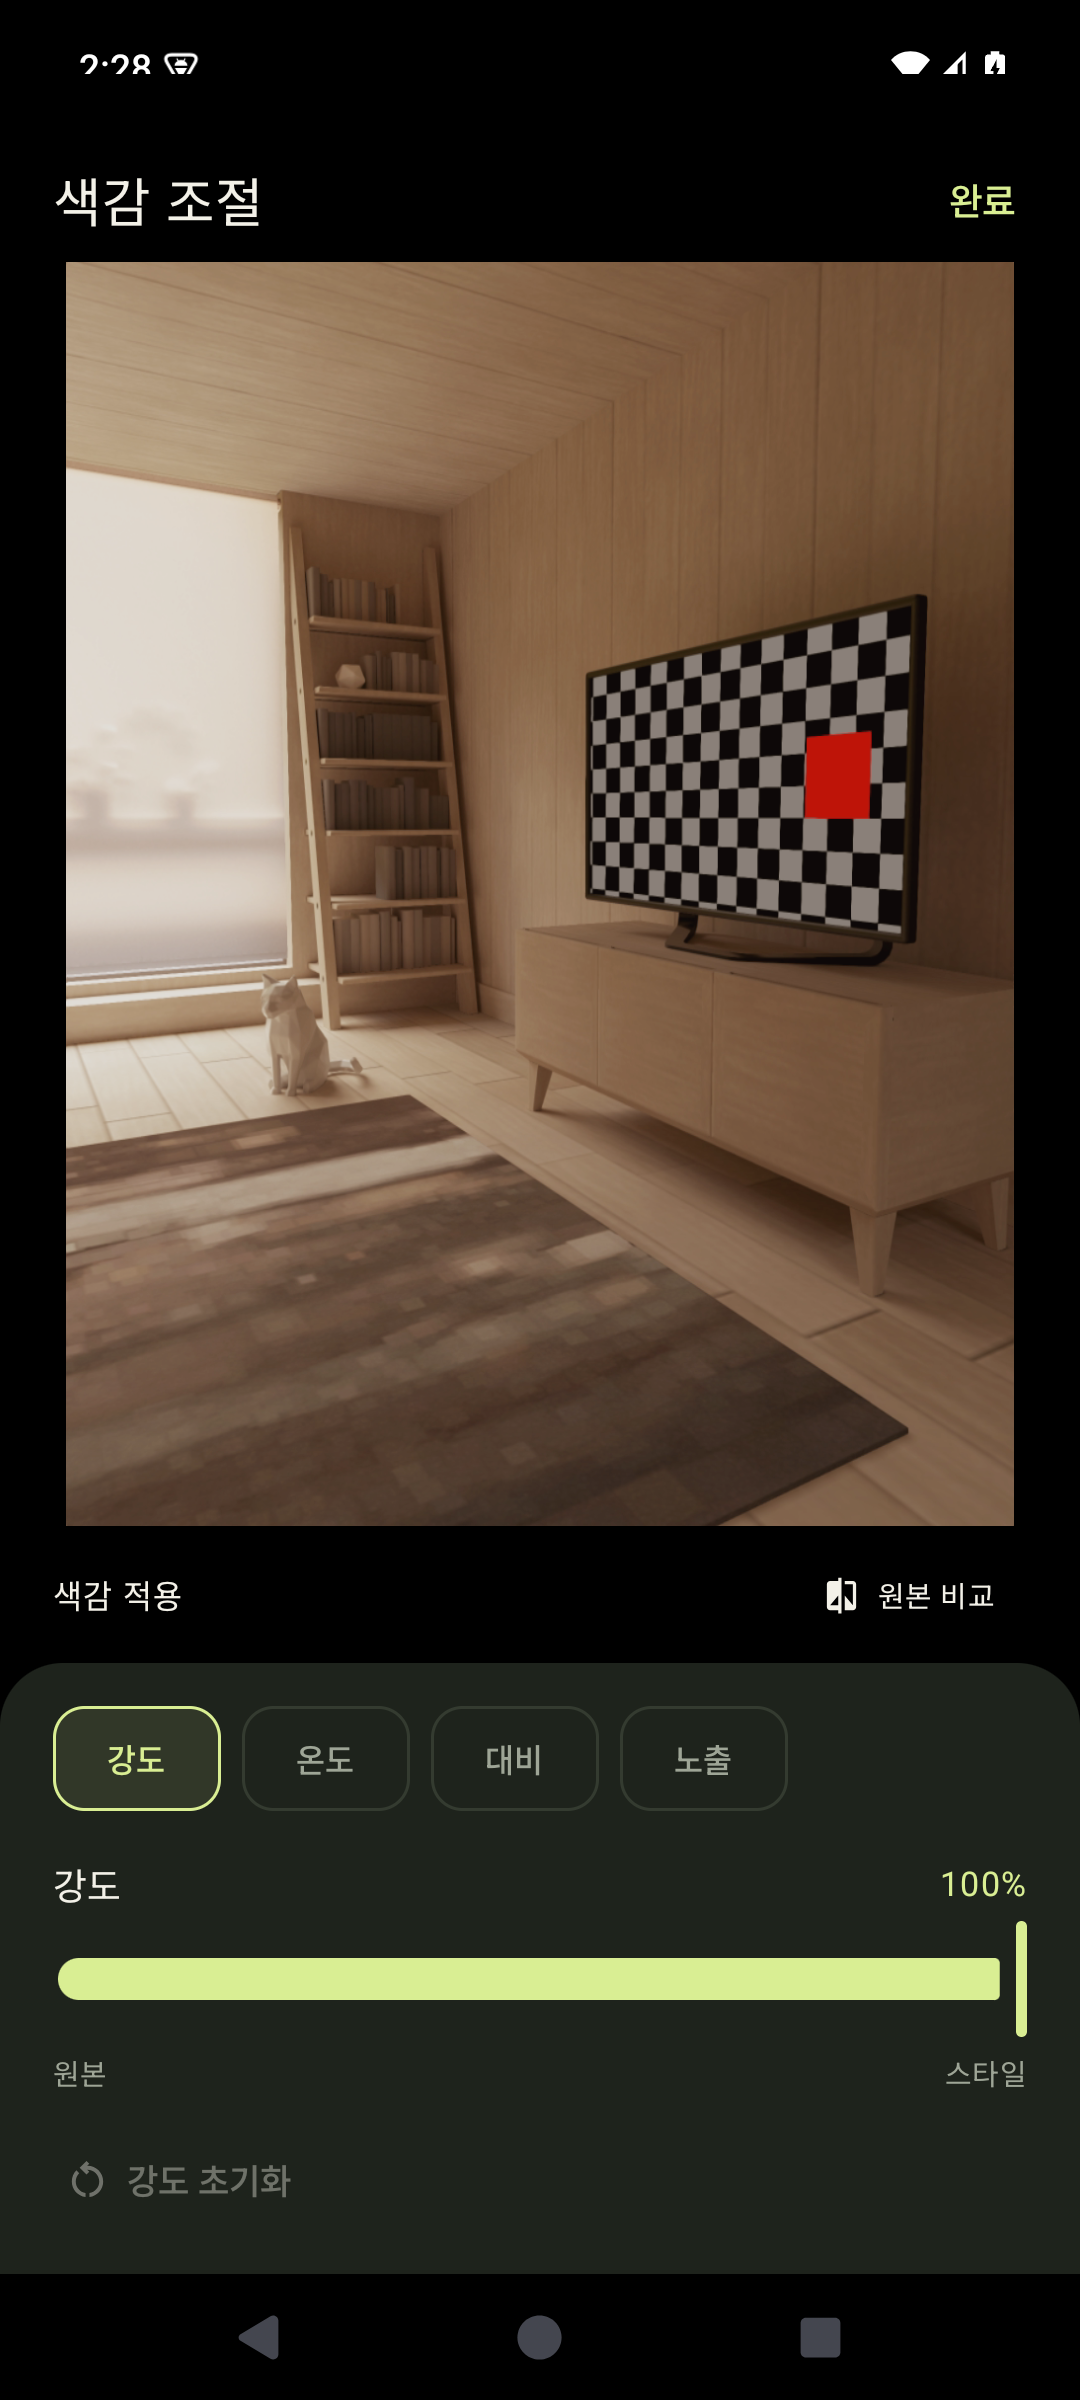
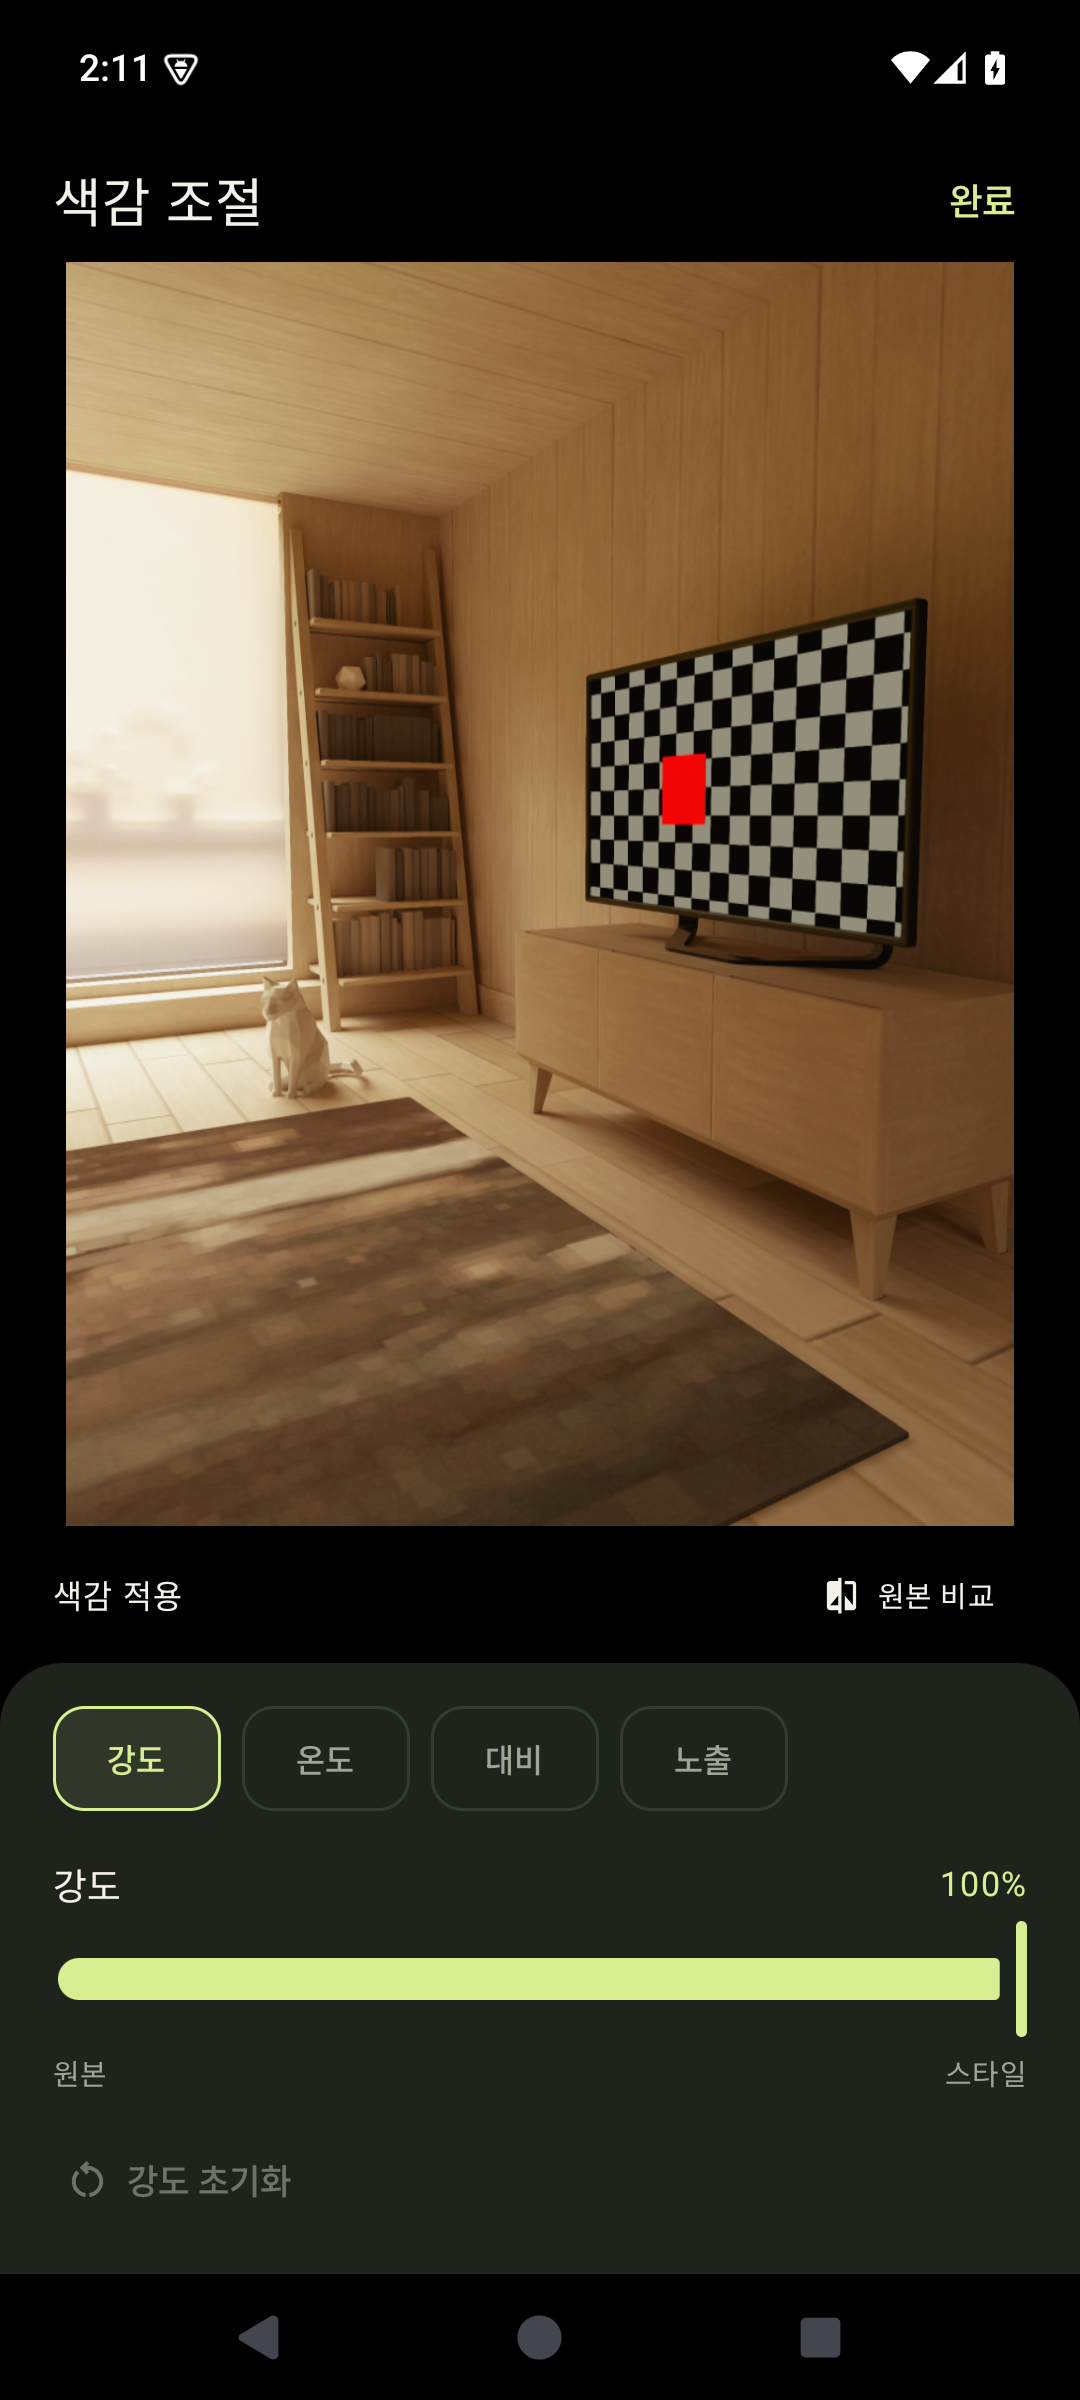
build: bump to 0.2.9 and document background saving and the measured styles
- versionCode 11, versionName 0.2.9
- RELEASE_REVIEW.md: what changed in saving and in the style values, how it
  was checked and what is still unverified
- README, Play testing guide and release notes for 0.2.9
- screenshots recaptured from the signed 0.2.9 APK, including the style
  description and About sheets whose text changed
- style sheet and About footnote no longer say the styles are unmeasured

Checked on the API 35 ARM64 emulator: lint 0 errors, unit 32, device 23,
small screen with large font 12. Signed bundle validated; upload
certificate unchanged.

diff --git a/app/src/main/java/studio/moment/camera/ui/Sheets.kt b/app/src/main/java/studio/moment/camera/ui/Sheets.kt
@@ -71,7 +71,7 @@ internal fun MomentSheet(
             when (sheet) {
                 Sheet.LOOKS -> {
                     SheetTitle("스타일 선택", "원하는 색감을 골라 보세요")
-                    Text("아이폰 기종에서 영감을 받아 만든 스타일이에요. 실제 기기의 색감을 측정해 재현한 결과는 아니에요.",
+                    Text("아이폰과 갤럭시로 같은 색상 차트를 찍은 사진을 비교해 만든 스타일이에요. 실제 아이폰 사진과 똑같지는 않아요.",
                         color = Muted, fontSize = 12.sp, lineHeight = 19.sp, modifier = Modifier.padding(bottom = 8.dp))
                     TextButton(onClick = onAbout, contentPadding = PaddingValues(0.dp)) { Text("스타일 제작 정보", fontSize = 12.sp) }
                     Looks.all.forEach { look ->
@@ -185,7 +185,7 @@ internal fun MomentSheet(
                     InfoText("사진 저장", "설정에서 사진 화질을 선택할 수 있어요. 용량 절약은 최대 300만, 표준은 최대 1,200만, 높음은 최대 2,400만 화소의 JPG로 저장해요. 실제 크기는 카메라와 촬영 비율, 여유 메모리에 따라 달라져요. 가져온 사진의 비율은 유지하며 원래보다 크게 늘리지 않아요. 투명한 부분에는 흰 배경을 넣어요. HDR 정보와 RAW 데이터는 JPG에 유지되지 않아요.")
                     InfoText("사진과 개인정보", "카메라 권한은 촬영에 사용해요. 가져오기는 직접 선택한 사진에만 접근해요. 앱의 색감 처리는 기기에서 이뤄지며 별도 서버나 분석 서비스로 사진을 전송하지 않아요. 갤러리 앱의 클라우드 동기화와 공유 기능은 해당 서비스 설정을 따라요.")
                     InfoText("사진에 포함된 정보", "편집본에는 촬영 기기와 노출 정보 등이 남을 수 있어요. 편집본에는 위치 정보를 복사하지 않지만, 별도 보관한 원본에는 기존 정보가 유지돼요. 사진은 갤러리에서 삭제할 수 있어요.")
-                    Footnote("모먼트는 애플이나 삼성의 공식 앱이 아니에요. 모델 이름은 스타일의 영감을 설명하기 위해 사용해요.")
+                    Footnote("모먼트는 애플이나 삼성의 공식 앱이 아니에요. 모델 이름은 스타일이 어느 기종의 색을 따랐는지 알리기 위해 사용해요.")
                 }
             }
         }

diff --git a/docs/PLAY_INTERNAL_TESTING.md b/docs/PLAY_INTERNAL_TESTING.md
@@ -1,8 +1,8 @@
 # Google Play 내부 테스트
 
-업로드용 키로 서명한 AAB를 [GitHub Releases](https://github.com/hyunjun1234/Iphone_camera/releases/tag/v0.2.8)에서 받을 수 있습니다. GitHub에 파일을 올리는 작업과 Play Console에 내부 테스트 버전을 게시하는 작업은 별개입니다. Console 등록은 아래 순서대로 직접 합니다.
+업로드용 키로 서명한 AAB를 [GitHub Releases](https://github.com/hyunjun1234/Iphone_camera/releases/tag/v0.2.9)에서 받을 수 있습니다. GitHub에 파일을 올리는 작업과 Play Console에 내부 테스트 버전을 게시하는 작업은 별개입니다. Console 등록은 아래 순서대로 직접 합니다.
 
-- [Play Console 업로드용 AAB 다운로드](https://github.com/hyunjun1234/Iphone_camera/releases/download/v0.2.8/moment-0.2.8-10.aab)
+- [Play Console 업로드용 AAB 다운로드](https://github.com/hyunjun1234/Iphone_camera/releases/download/v0.2.9/moment-0.2.9-11.aab)
 
 **App Bundle 업로드란에는 `.aab` 파일 하나만 선택합니다.** APK는 휴대폰에 직접 설치할 때 쓰는 파일입니다. 이번 GitHub 릴리스에는 Console 업로드용 AAB와 체크섬을 첨부했습니다.
 
@@ -12,19 +12,19 @@
 | --- | --- |
 | 앱 이름 | 모먼트 |
 | 패키지 이름 | `studio.moment.camera` |
-| 버전 | `0.2.8` |
-| 버전 코드 | `10` |
+| 버전 | `0.2.9` |
+| 버전 코드 | `11` |
 | 대상 SDK | Android 16, API 36 |
 | 배포 대상 | 내부 테스트 |
-| Console에 업로드할 파일 | `app/build/outputs/play/moment-0.2.8-10.aab` |
-| 직접 설치할 파일 | `app/build/outputs/play/moment-0.2.8-10.apk` |
+| Console에 업로드할 파일 | `app/build/outputs/play/moment-0.2.9-11.aab` |
+| 직접 설치할 파일 | `app/build/outputs/play/moment-0.2.9-11.apk` |
 
 이 경로들은 로컬 빌드 결과이며 Git에 포함하지 않습니다. 같은 폴더의 `release-info.json`에 파일별 SHA-256과 업로드 인증서 지문이 있습니다. `uploadedToGooglePlay: false`는 파일 생성만 완료했다는 뜻입니다. 이 값은 실제 Console 배포 상태를 조회한 결과가 아닙니다.
 
 ## 업로드 오류가 표시될 때
 
 - **유효한 App Bundle을 업로드하세요:** 선택한 파일의 확장자가 `.aab`인지 확인합니다. APK 파일을 App Bundle 입력란에 함께 올리지 않습니다.
-- **3 버전 코드는 이미 사용되었습니다:** Console에 이미 사용된 버전 코드입니다. 새로 업로드하려면 버전 코드를 높여 빌드해야 합니다. 이번 `moment-0.2.8-10.aab`에는 버전 코드 `10`이 들어 있습니다. 파일 이름이나 Console의 출시명만 바꿔서는 해결되지 않습니다.
+- **3 버전 코드는 이미 사용되었습니다:** Console에 이미 사용된 버전 코드입니다. 새로 업로드하려면 버전 코드를 높여 빌드해야 합니다. 이번 `moment-0.2.9-11.aab`에는 버전 코드 `11`이 들어 있습니다. 파일 이름이나 Console의 출시명만 바꿔서는 해결되지 않습니다.
 - 버전 코드 3의 AAB가 이미 정상 등록돼 있고 같은 파일을 다시 쓰려는 경우에는 새 업로드 대신 **라이브러리에서 추가**로 선택할 수 있습니다.
 
 [버전 코드 안내](https://developer.android.com/studio/publish/versioning), [버전 준비 및 출시 안내](https://support.google.com/googleplay/android-developer/answer/9859348?hl=ko)
@@ -60,8 +60,8 @@ Google Play는 업로드 키와 배포 시 사용하는 앱 서명 키를 구분
 내부 테스트는 앱 설정을 모두 마치기 전에도 사용할 수 있고, 최대 100명의 테스트 계정에 배포할 수 있습니다. [Google 내부 테스트 안내](https://support.google.com/googleplay/android-developer/answer/9845334?hl=ko)
 
 1. Google Play 개발자 계정으로 Console에 로그인합니다. 새 앱이면 이름을 ‘모먼트’, 기본 언어를 한국어로 설정하고 앱 유형과 가격 등 등록 정보를 정합니다. 같은 패키지의 앱이 이미 있으면 그 앱을 엽니다.
-2. **테스트 및 출시**, **테스트**, **내부 테스트** 순서로 들어가 새 버전을 만들고 Play 앱 서명을 설정합니다. `moment-0.2.8-10.aab`를 업로드합니다. 첫 업로드 후 패키지 이름은 고정되므로 `studio.moment.camera`가 맞는지 확인합니다.
-3. 버전 이름은 `0.2.8 (10)`으로 입력하고, [한국어 출시 노트](../play/ko-KR/release-notes.txt)를 붙여넣습니다. Console의 오류가 있다면 해결한 뒤 내부 테스트 버전을 게시합니다.
+2. **테스트 및 출시**, **테스트**, **내부 테스트** 순서로 들어가 새 버전을 만들고 Play 앱 서명을 설정합니다. `moment-0.2.9-11.aab`를 업로드합니다. 첫 업로드 후 패키지 이름은 고정되므로 `studio.moment.camera`가 맞는지 확인합니다.
+3. 버전 이름은 `0.2.9 (11)`으로 입력하고, [한국어 출시 노트](../play/ko-KR/release-notes.txt)를 붙여넣습니다. Console의 오류가 있다면 해결한 뒤 내부 테스트 버전을 게시합니다.
 4. **테스터** 탭에서 휴대폰의 Play 스토어에 로그인한 Google 계정을 테스트 목록에 추가하고 목록을 선택해 저장합니다. 기존 테스트 목록을 교체하지 않도록 주의합니다.
 5. Console에 표시되는 테스트 참여 링크를 복사합니다. 같은 Google 계정으로 링크를 열어 테스트에 참여한 뒤 Play 스토어에서 설치합니다. 처음 게시하면 링크나 앱 표시가 반영될 때까지 시간이 걸릴 수 있습니다.
 
@@ -72,7 +72,7 @@ Google Play는 업로드 키와 배포 시 사용하는 앱 서명 키를 구분
 - 최적화된 릴리스 AAB와 APK 빌드 및 서명 검증
 - AAB와 APK의 업로드 인증서 일치, 디버그 서명 사용 여부 확인
 - Google `bundletool` 1.18.3으로 AAB 구조 검증
-- AAB의 패키지 이름, 버전 코드 10, 버전 0.2.8, 대상 API 36 확인
+- AAB의 패키지 이름, 버전 코드 11, 버전 0.2.9, 대상 API 36 확인
 - AAB의 업로드 인증서 지문이 0.2.7과 같은지 확인
 - APK의 ZIP 정렬과 포함된 ARM64 및 x86_64 네이티브 라이브러리의 ELF 16KB 정렬 확인
 - 서명 설정이 없으면 배포 준비 명령과 서명 필수 빌드가 중단되는지 확인

diff --git a/docs/RELEASE_REVIEW.md b/docs/RELEASE_REVIEW.md
@@ -1,5 +1,50 @@
 # 출시 준비 검토
 
+## 버전 0.2.9 바로 찍히는 셔터와 측정한 스타일 값
+
+검토일: 2026-11-11
+
+셔터를 누른 뒤 보정이 끝날 때까지 기다리던 것을 없앴고, 원본과 차이가 작던 9개 스타일의 값을 색상 차트 측정에서 다시 구했습니다.
+
+### 촬영 뒤 저장
+
+| 항목 | 0.2.8 | 0.2.9 |
+| --- | --- | --- |
+| 셔터를 다시 누를 수 있는 시점 | 색감 적용과 저장이 끝난 뒤 | 카메라가 사진을 넘겨준 직후 |
+| 저장 중 표시 | 셔터 버튼의 진행 표시, 다른 조작은 잠김 | 최근 사진 버튼 위의 작은 진행 표시, 조작 가능 |
+| 여러 장을 이어 찍었을 때 | 한 장씩 기다림 | 찍은 순서대로 뒤에서 저장 |
+| 저장 전에 앱이 꺼졌을 때 | 미확인 | 다음 실행 때 이어서 저장 |
+
+사진마다 찍은 순간의 스타일, 강도, 온도, 대비, 화질, 촬영 영역을 함께 적어 두므로 저장을 기다리는 동안 설정을 바꿔도 앞서 찍은 사진은 달라지지 않습니다. 색감 적용이 앱 시작 두 번에 걸쳐 실패한 사진은 촬영한 그대로 저장하고 알려 줍니다. 저장이 끝나면 한 장일 때는 기존 문구로, 여러 장일 때는 장수로 알립니다.
+
+단위 테스트 `PhotoQueueTest` 6개가 대기열을, 통합 테스트 `theNextPhotoCanBeTakenWhileEarlierOnesAreStillBeingSaved`가 저장 중에도 셔터가 준비되는지를 검사합니다. 실기기에서 셔터 간격이 얼마나 줄었는지는 미확인입니다.
+
+### 스타일 값
+
+값을 구한 방법과 표는 [기종별 색감의 출처와 확인 범위](COLOR_EVIDENCE.md)에 있습니다. 요약하면 같은 ColorChecker 차트를 찍은 갤럭시 7종의 평균을 아이폰 9종 각각의 색으로 옮기는 변화를 계산했고, 계산은 `python3 scripts/color/derive_looks.py`로 다시 할 수 있습니다.
+
+| 항목 | 0.2.8 | 0.2.9 |
+| --- | --- | --- |
+| 값의 출처 | 직접 고른 값 | 차트 사진 측정 |
+| 샘플 6장에서 원본과의 평균 색차(CIEDE2000) | 1.2에서 4.5 | 4.5에서 7.9 |
+| 회색을 노랗게 만드는 스타일 | 8개(13은 파란 쪽) | 9개 |
+| 중간 밝기 | 9개 모두 원본과 거의 같음 | 6s와 7은 어둡게, 나머지는 밝게 |
+| 대비 계산 | 직선, 범위를 넘으면 잘라냄 | 검정과 흰색을 제자리에 두는 S자 곡선 |
+
+색차는 2026-11-11에 앱과 같은 계산식을 Python으로 적용해 구했습니다. 대비 곡선을 바꾼 이유는 새 값의 대비가 최대 1.35여서, 이전 계산으로는 어두운 곳과 밝은 곳이 한 값으로 뭉치기 때문입니다. 대비 조절을 끝까지 올려도 어두운 회색부터 밝은 회색까지 단계가 남는지 테스트로 확인합니다.
+
+서로 비슷한 스타일이 있습니다. 8은 X의 밝기 값을 쓰고 15 Pro는 13과 16의 평균이어서, 13과 15 Pro, 8과 X, 15 Pro와 16의 차이는 평균 색차 1.3에서 1.6입니다.
+
+서명된 배포용 APK를 에뮬레이터에 설치해 9개 스타일의 미리보기를 차례로 확인했고, 6s와 16으로 찍은 사진이 미리보기와 같은 색인지 비교했습니다. 프레임 위쪽 55% 영역의 평균 색 차이는 채널당 최대 3.0(6s)과 3.7(16)이었습니다(0에서 255 기준, 가상 장면에 움직이는 물체가 있음). 문서 이미지는 이 APK의 실제 실행 화면입니다. AAB의 구조와 버전 코드 11, 패키지 이름, 대상 SDK 36 및 0.2.8과 같은 업로드 인증서를 검증했습니다.
+
+앱 정보의 스타일 제작 방식 문구를 바꾸고, 선택한 스타일의 차트가 실린 리뷰 링크를 추가했습니다.
+
+### 검증
+
+단위 테스트 32개, Android 통합 테스트 23개, 360×720dp와 글자 크기 130%에서 촬영과 사용성 테스트 12개를 통과했습니다(2026-11-11, API 35 ARM64 에뮬레이터). 0.2.8보다 단위 테스트 11개(저장 대기열 6개, 색 5개)와 통합 테스트 1개가 늘었습니다. 린트 오류는 0개이며 기존 경고 22개가 남아 있습니다.
+
+갤럭시 실기기에서 찍은 사진에 적용한 결과와, CameraX로 받은 사진의 색이 삼성 기본 카메라 앱과 같은지는 미확인입니다.
+
 ## 버전 0.2.8 기본 카메라와 같은 1배 화각
 
 검토일: 2026-11-10
